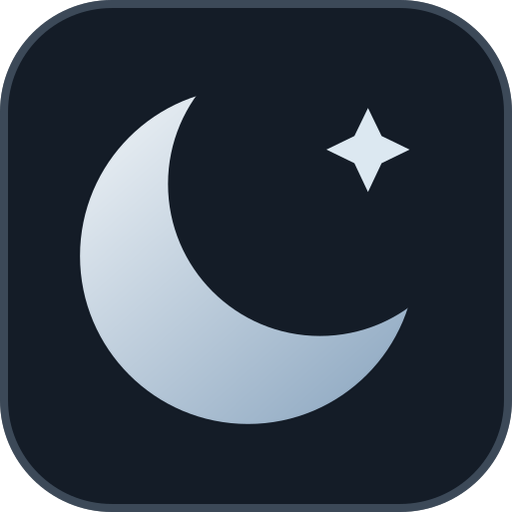
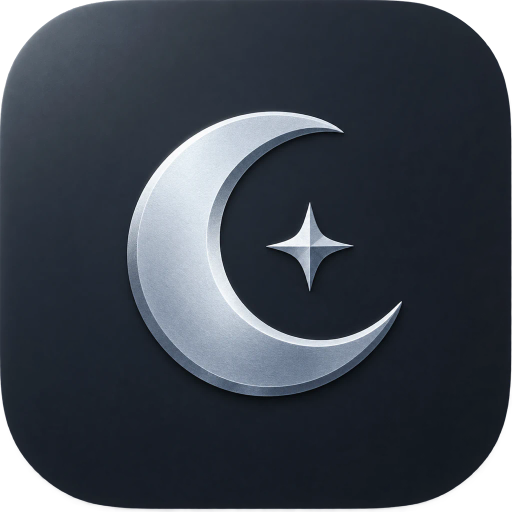
feat(hub): Codex 생성 아이콘 — 앱·사이드바 로고 · 브랜드 10 · 제품 17
- 앱 타일 원본 design-system/icons/moonlight-app-icon.webp → icons:generate가 icon-192/512 ·
  maskable · apple-touch · favicon.ico를 만든다. 사이드바 로고·빠른 입력 위젯도 같은 타일.
  icon.svg는 데스크톱 메뉴 막대·안드로이드용 선 마크로 남긴다.
- 브랜드 표준 10개는 이미지 타일, 학원·미식별 브랜드는 SVG 그대로.
- 제품 17개 아이콘을 PRODUCT_ICON_SRC에 연결, 없는 제품은 모노그램.
- DESIGN §14·§15 기록(권장), §11 카브아웃 문구 정정.

diff --git a/apps/hub/lib/product-icons.js b/apps/hub/lib/product-icons.js
@@ -1,6 +1,25 @@
 // 제품 아이콘 — 제품 id(또는 slug) → 정사각 이미지 주소. 비어 있으면 ProductMark가 모드 질감의 모노그램 타일로 그린다.
-// 아이콘은 나중에 따로 채운다(2026-10-21). 예: { "<product id>": "/product-icons/omr.png" }
-export const PRODUCT_ICON_SRC = {};
+// 아이콘은 Codex 이미지 생성으로 만든 192px 타일이다(2026-10-21, `public/icons/products/<id 앞 8자>.png`).
+// 새 제품은 아이콘을 만들어 여기 한 줄을 더할 때까지 모노그램 타일로 보인다.
+export const PRODUCT_ICON_SRC = {
+  "9b0b6350-7439-4664-8644-193acf0ec3a1": "/icons/products/9b0b6350.png", // AIs · AI·SaaS 탐색과 활용
+  "a9091b20-1098-4022-b075-e7e0025a8582": "/icons/products/a9091b20.png", // band2sheet · 악보 스튜디오
+  "87b7060a-e411-4776-bd35-7adda8efb6bd": "/icons/products/87b7060a.png", // Bible Sparta · 말씀 순례
+  "62fd2fc1-501b-404c-a597-831cbfc5afcb": "/icons/products/62fd2fc1.png", // EDB 메이커
+  "6db5a023-3947-491b-8cab-24769910571a": "/icons/products/6db5a023.png", // HWP 메이커
+  "6fd776fd-8ed8-4def-8072-d43a002369c5": "/icons/products/6fd776fd.png", // OMR 메이커
+  "a2787d18-baf2-4ccd-b4bc-1a86efbe70bb": "/icons/products/a2787d18.png", // Worship Together
+  "b6dc9200-af97-4066-8cb9-e289674b7095": "/icons/products/b6dc9200.png", // 경제 인텔리전스 플랫폼
+  "ae0ee466-3a5e-4f7e-a0d1-0d75c6516917": "/icons/products/ae0ee466.png", // 과학·테크 지식 커뮤니티
+  "66fb7359-97bb-4a24-9279-1b9b613a61c4": "/icons/products/66fb7359.png", // 국방 데이터 허브
+  "e62e7655-555d-4d02-8b7d-79161567fcef": "/icons/products/e62e7655.png", // 스타트업 커뮤니티
+  "41287fd7-51b3-4824-9a4f-35898644a419": "/icons/products/41287fd7.png", // 시나리오 허브
+  "111a7f1b-5cf0-4491-b29c-aa1fb5cd83b8": "/icons/products/111a7f1b.png", // 에듀 학습 플랫폼 · 배움곁(가칭)
+  "5601011b-dcb9-4bc9-b751-e77bac8832b6": "/icons/products/5601011b.png", // 오라클0 · 예측 커뮤니티
+  "49466a90-99bd-4bee-b124-ef47216b4a22": "/icons/products/49466a90.png", // 집중몰입 · 학생 성장 앱
+  "19440fed-99c9-497f-a4e4-170e98b323c2": "/icons/products/19440fed.png", // 취업 지원 서비스
+  "28869b7f-9d4a-4ba5-9ae5-f751cbc0b23d": "/icons/products/28869b7f.png", // 크리스천 커뮤니티
+};
 
 export function productIconSrc(product, icons = PRODUCT_ICON_SRC) {
   return icons[product?.id] || (product?.slug ? icons[product.slug] : null) || null;

diff --git a/apps/hub/components/hub/brand-icons.jsx b/apps/hub/components/hub/brand-icons.jsx
@@ -66,8 +66,25 @@ function markFor(brand) {
   return { id: "generic", shape: GENERIC };
 }
 
+// 2026-10-21 운영자 "브랜드 아이콘 다시": 브랜드마다 Codex로 만든 앱 아이콘 타일(먹색 판 + 은빛 기호,
+// 위 MARKS와 같은 주제)을 쓴다. 판이 제 바탕을 갖고 있어 라이트·다크 어디서나 같은 모습이다. 그림이 없는
+// 새 브랜드는 아래 선 기호(학원·중립)로 떨어진다. 원본 1024px → 256px로 줄여 `public/icons/brands/`에 둔다.
+const IMAGE_KEYS = new Set(["22nomad", "bridgemaker", "classmoon", "classin_side", "holyfuncollector", "moonpm", "politicofficer", "studyseagull", "gore", "sinabro"]);
+
+export function brandIconSrc(brand) {
+  const key = String(brand?.key || brand?.slug || "").toLowerCase();
+  return IMAGE_KEYS.has(key) ? `/icons/brands/${key}.png` : null;
+}
+
 export function BrandIcon({ brand, size = 18, style }) {
   const mark = markFor(brand);
+  const src = brandIconSrc(brand);
+  if (src) {
+    return (
+      <img src={src} width={size} height={size} alt="" aria-hidden="true" draggable={false} data-brand-icon={mark.id}
+        style={{ flexShrink: 0, display: "block", borderRadius: Math.round(size * 0.24), objectFit: "cover", ...style }} />
+    );
+  }
   return (
     <svg width={size} height={size} viewBox={mark.viewBox || "0 0 24 24"} fill={mark.filled ? "currentColor" : "none"}
       stroke={mark.filled ? "none" : "currentColor"} strokeWidth="1.7" strokeLinecap="round" strokeLinejoin="round"

diff --git a/apps/hub/components/hub/hub-sidebar.jsx b/apps/hub/components/hub/hub-sidebar.jsx
@@ -291,7 +291,7 @@ export const Sidebar = React.forwardRef(function Sidebar({ active, view, search 
     }}>
       <div className="hub-sidebar-header" style={{ padding: '14px 14px 10px', display: 'flex', alignItems: 'center', justifyContent: 'space-between' }}>
         <div className="hub-sidebar-brand" style={{ display: 'flex', alignItems: 'center', gap: 9 }}>
-          <img src="/icon.svg" width="28" height="28" alt="" aria-hidden="true" style={{ flexShrink: 0 }} />
+          <img src="/icon-192.png" width="28" height="28" alt="" aria-hidden="true" style={{ flexShrink: 0, borderRadius: 7 }} />
           <div>
             <div style={{ fontSize: 13, fontWeight: 600, letterSpacing: '-0.01em' }}>Moonlight</div>
             <div className="mono" style={{ fontSize: 10.5, color: 'var(--fg-faint)', letterSpacing: '0.05em', marginTop: -1 }}>HUB · PRO</div>

diff --git a/apps/hub/components/hub/quick-widget.jsx b/apps/hub/components/hub/quick-widget.jsx
@@ -176,7 +176,7 @@ export function FirstActionSlot({ status, signals, bridge = null, onRetry, onLog
 export function WidgetBar({ bridge = null, pinned = true, onPin, onClose }) {
   return (
     <header className="quick-widget__bar">
-      <img src="/icon.svg" alt="" aria-hidden="true" width={14} height={14} />
+      <img src="/icon-192.png" alt="" aria-hidden="true" width={14} height={14} />
       <h2 className="quick-widget__eyebrow">빠른 입력</h2>
       {bridge ? (
         <div className="quick-widget__actions">

diff --git a/apps/hub/app/layout.jsx b/apps/hub/app/layout.jsx
@@ -7,7 +7,7 @@ export const metadata = {
   applicationName: "Moonlight",
   icons: {
     icon: [
-      { url: "/icon.svg", type: "image/svg+xml", sizes: "any" },
+      { url: "/icon-192.png", type: "image/png", sizes: "192x192" },
       { url: "/favicon.ico", sizes: "32x32", type: "image/x-icon" },
     ],
     apple: [{ url: "/apple-touch-icon.png", sizes: "180x180", type: "image/png" }],
